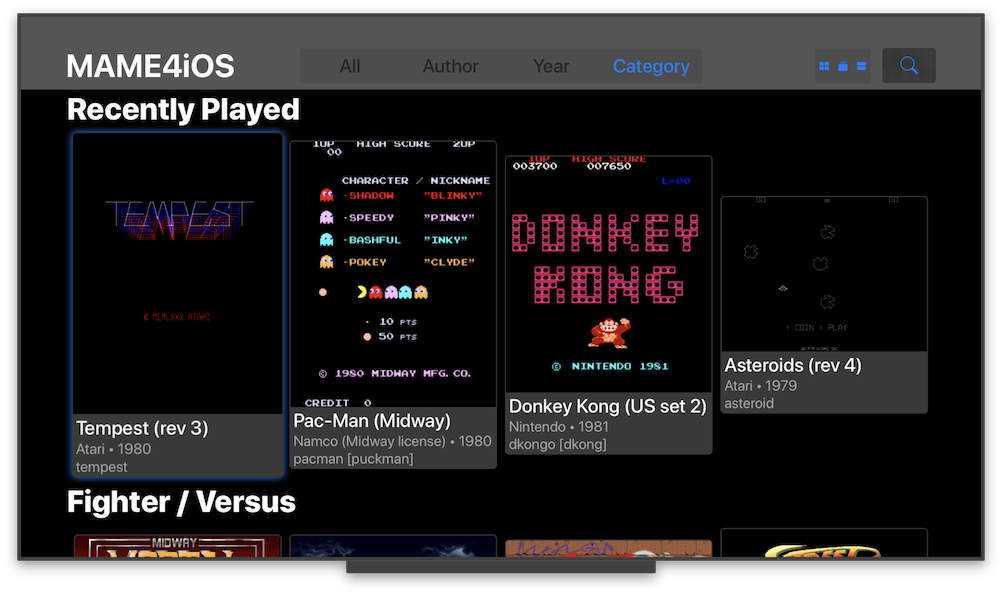
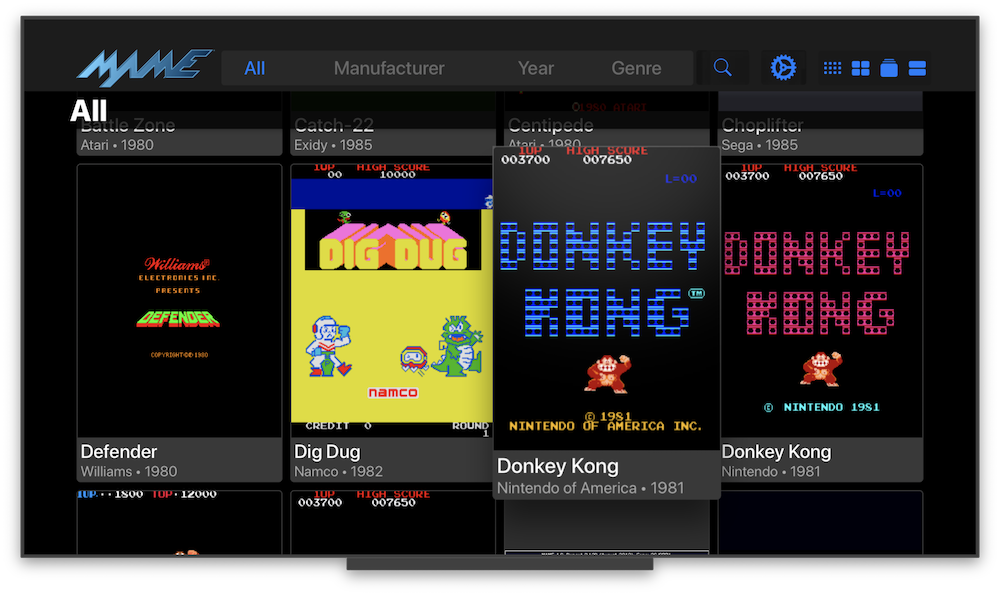
updated screen shots to 2020.3 version. gave the layout a little kick.

diff --git a/xcode/MAME4iOS/ChooseGameController.m b/xcode/MAME4iOS/ChooseGameController.m
@@ -726,16 +726,20 @@ UIView* find_view(UIView* view, Class class) {
 
 #pragma mark - UICollectionView
 
--(void)invalidateLayout
+-(void)kickLayout
 {
-    [self.collectionView.collectionViewLayout invalidateLayout];
-    _layoutRowHeightCache = nil;   // flush row height cache
-    
     // HACK kick the layout in the head, so it gets the location of headers correct
     CGPoint offset = self.collectionView.contentOffset;
     [self.collectionView setContentOffset:CGPointMake(offset.x, offset.y + 0.5)];
     [self.collectionView layoutIfNeeded];
     [self.collectionView setContentOffset:offset];
+}
+
+-(void)invalidateLayout
+{
+    [self.collectionView.collectionViewLayout invalidateLayout];
+    _layoutRowHeightCache = nil;   // flush row height cache
+    [self kickLayout];
 }
 
 -(void)reloadData
@@ -945,6 +949,7 @@ UIView* find_view(UIView* view, Class class) {
             if (selectedIndexPath != nil) {
                 [self.collectionView selectItemAtIndexPath:selectedIndexPath animated:NO scrollPosition:UICollectionViewScrollPositionCenteredVertically];
             }
+            [self kickLayout];
         }];
     }
 }
